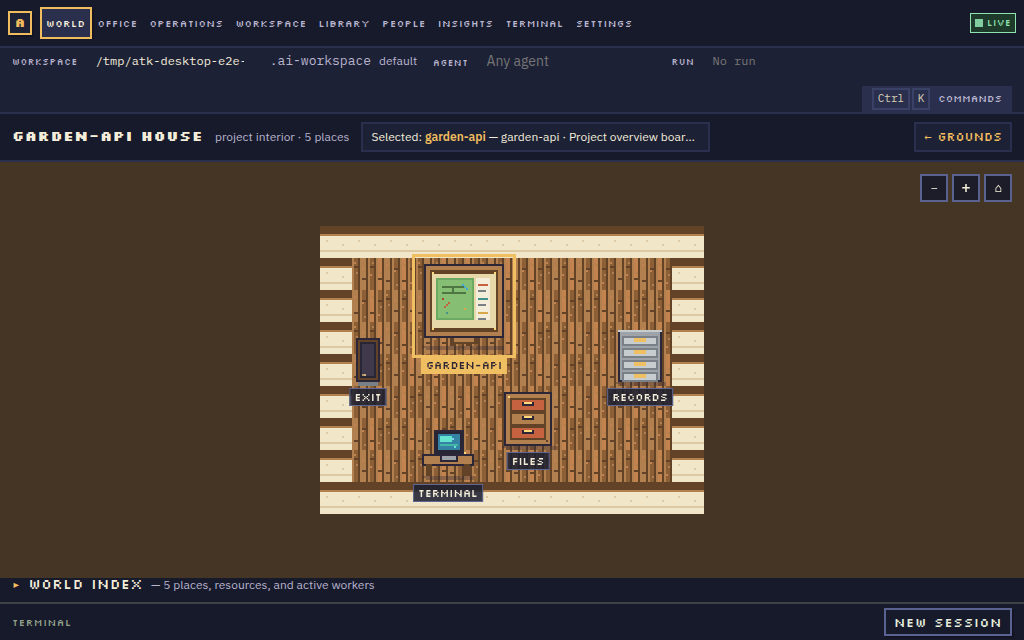
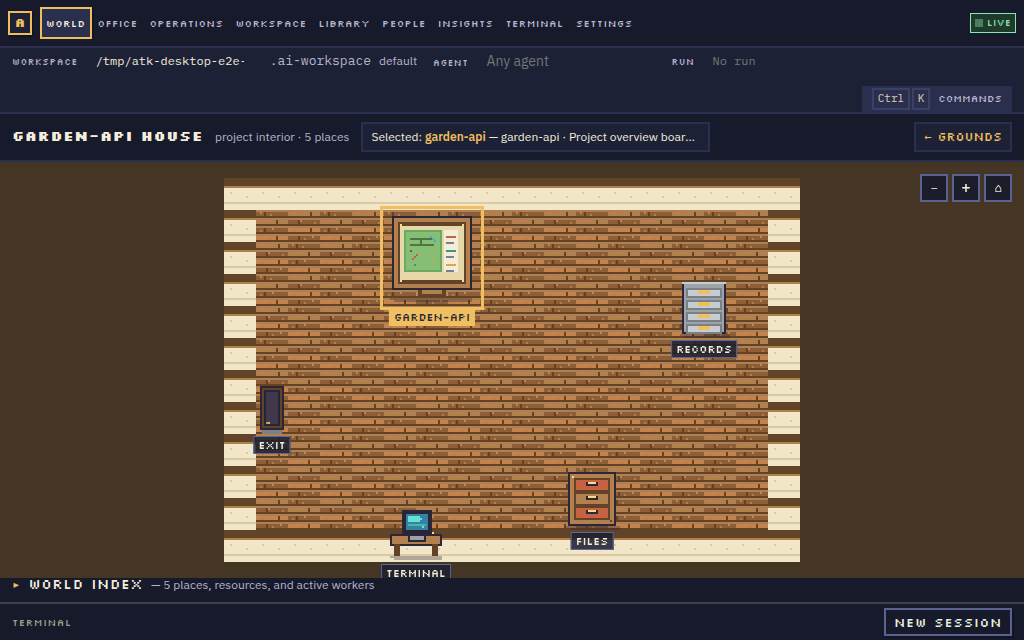
docs(desktop): refresh project room captures

Changed region(s): [[0.2188, 0.2812, 0.7812, 0.9062]]

diff --git a/docs/desktop/VISUAL_QA.md b/docs/desktop/VISUAL_QA.md
@@ -128,6 +128,27 @@ Opened files:
   and [large](assets/electron/world/world-several-projects-large.png).
 - [Project Files room, large](assets/electron/world/project-files-room-large.png).
 
+## Project room scale and floor review — 2026-10-04
+
+Source `d97edf59`, Linux Electron captures against the disposable E2E
+workspace. I opened the project interior at compact and large sizes. The real
+overview board, memory records, Files, Terminal, and exit now sit in separate
+stations around a clear center aisle, and the enlarged room uses substantially
+more of the world viewport. The offline room contains no invented workers or
+workstation activity. After the first capture exposed a repetitive vertical
+stripe floor, the source generator was changed to make horizontally laid,
+stagger-jointed boards; the second capture confirms a calmer, more readable
+floor texture at both scales.
+
+The floor still reads as a simple authored plank tile, and the open center is
+deliberately kept clear until a real session needs space. This interior pass
+does not add unsupported project Knowledge or arbitrary furniture.
+
+Opened files:
+
+- [Project Files room, compact](assets/electron/world/project-files-room-compact.png)
+  and [large](assets/electron/world/project-files-room-large.png).
+
 ## Latest opened review — 2026-10-03
 
 ### Workspace switch and project isolation — 2026-10-03
